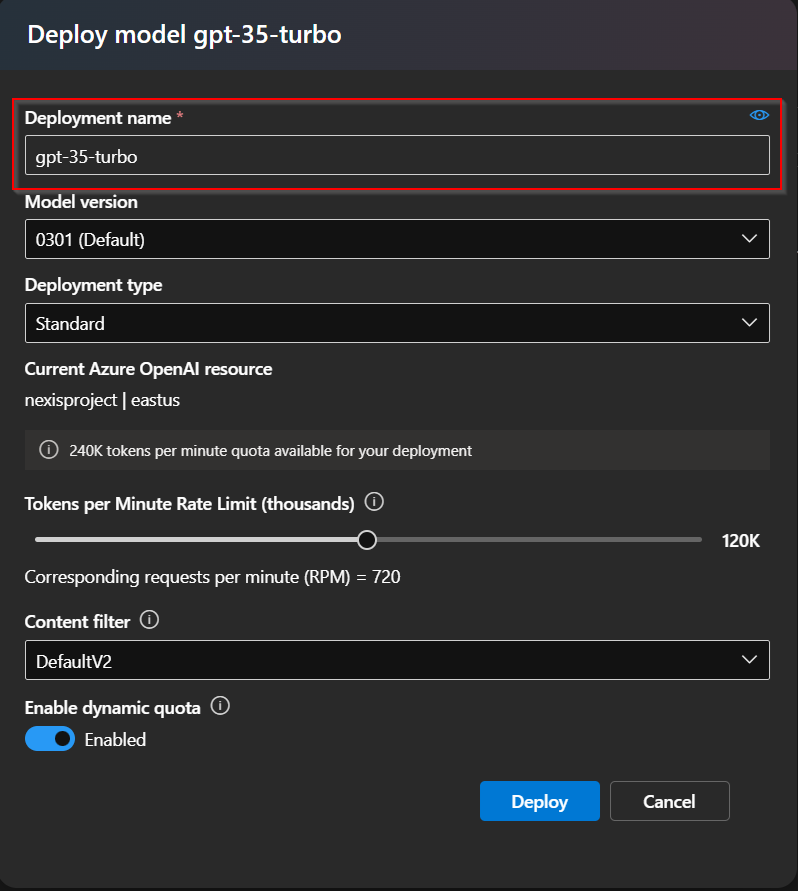
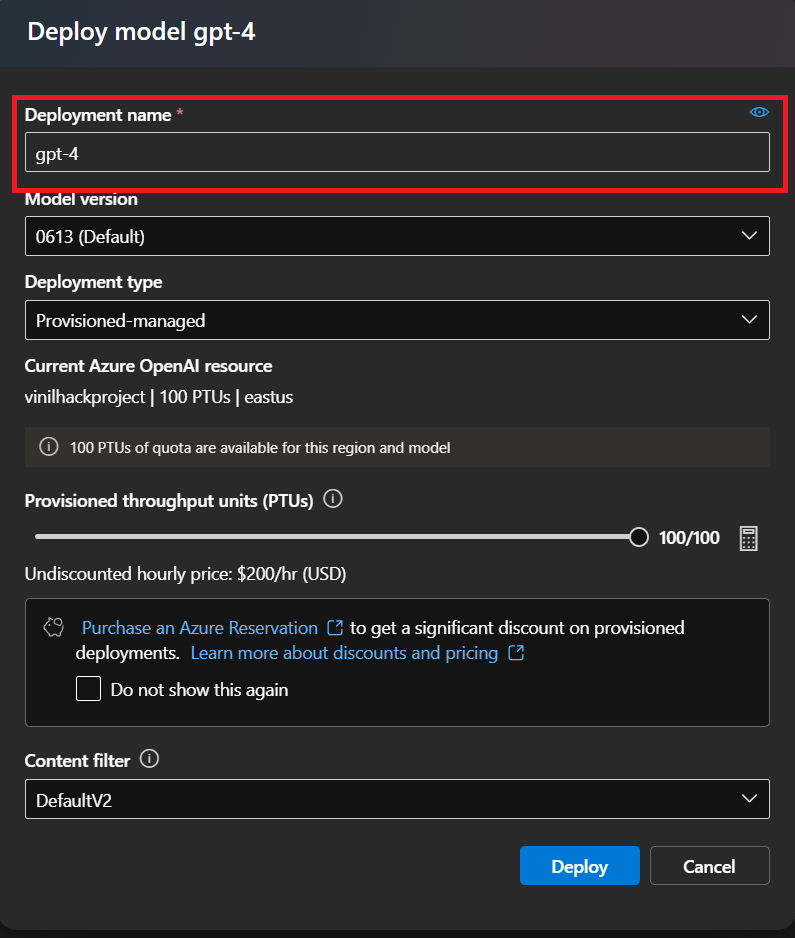
udpating gpt4

diff --git a/README.md b/README.md
@@ -56,7 +56,7 @@ Create an `openai_config.json` file in your home directory with the obtained inf
 ### 3. Deploy Base Model in Azure AI Studio
 Login to [Azure AI Studio](https://ai.azure.com/) and deploy a Base model for Nexis:
 - Go to the deployment option.
-- Select Deploy model → Select model → Select gpt-35-turbo and confirm.
+- Select Deploy model → Select model → Select gpt-4 and confirm.
 - Update the deployment name in `openai_config.json` if necessary.
 
 <img src="https://github.com/vinil-v/nexis/blob/main/images/model_deployment.png">
